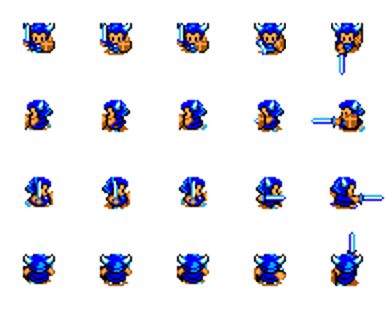
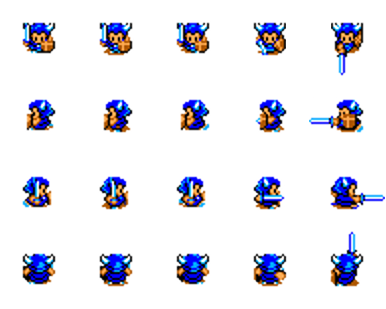
Aligned character and print message when attacking.

diff --git a/game.c b/game.c
@@ -528,10 +528,16 @@ void attack(void)
   if (tx == -1 || ty == -1)
     return;
 
+  set_attack_actor(&d.pa, d.pa.dir);
+
   if (is_monster_at(tx, ty))
   {
-    set_attack_actor(&d.pa, d.pa.dir);
+    message("Strike at monster");
     attack_monster_at(tx, ty);
+  }
+  else
+  {
+    message("No monster within range");
   }
 }
 
